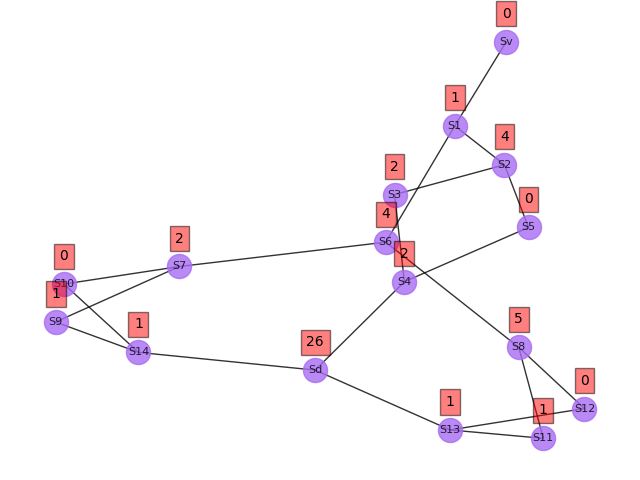
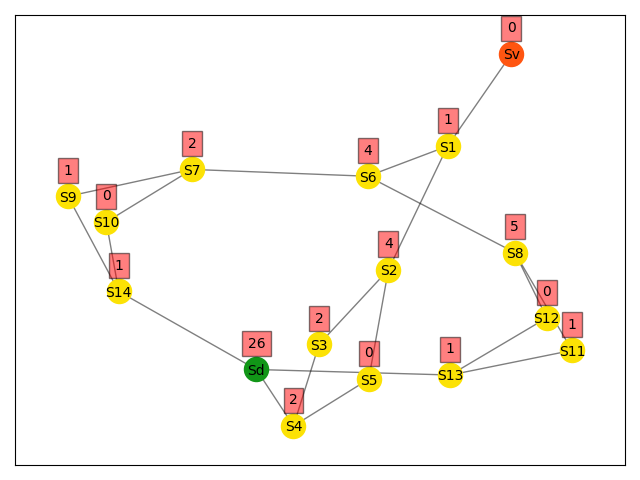
Sd and Sv are now different colors in printing

diff --git a/graphPrinting.py b/graphPrinting.py
@@ -1,10 +1,8 @@
-import tkinter as tk
-from matplotlib.backends.backend_tkagg import FigureCanvasTkAgg
 import networkx as nx
 import matplotlib.pyplot as plt
 
 
-# Init Graph with Networkx
+# Inits Graph with Networkx
 def initPrintingGraph(anthill):
     graph = nx.Graph()
     graph.add_node('Sv')
@@ -18,25 +16,45 @@ def initPrintingGraph(anthill):
         graph.add_edge(edge[0], edge[1])
 
     nodePos = nx.spring_layout(graph)
-    nx.draw(graph, nodePos, with_labels=True, font_size=8, alpha=0.8, node_color="#A86CF3")
+    drawNodes(anthill, nodePos, graph)
+    drawNamesAndCapacities(anthill, nodePos)
     plt.savefig("./steps/anthill.png")
+    plt.tight_layout()
+    plt.axis("off")
     return graph, nodePos
 
 
-# Printing NetworkX Graph
-def printGraph(graph, nodePos, anthill, stepId):
-    figure = plt.gcf()
-    figure.canvas.manager.set_window_title('Anthill')
-    figure.canvas.manager.window.SetPosition = (200, 200)
-
-    nx.draw(graph, nodePos, with_labels=True, font_size=8, alpha=0.8, node_color="#A86CF3")
+# Draws room names and their capacities above nodes
+def drawNamesAndCapacities(anthill, nodePos):
     for room in anthill.getRoomArray():
         currentName = room.getName()
         currentCapacity = room.getMaxCapacity() - room.getCapacityLeft()
         x, y = nodePos[currentName]
+        plt.text(x, y - 0.025, s=currentName, horizontalalignment='center')
         plt.text(x, y + 0.1, s=currentCapacity, bbox=dict(facecolor='red', alpha=0.5), horizontalalignment='center')
 
+
+# Draws node in different colors
+def drawNodes(anthill, nodePos, graph):
+    roomNames = anthill.getRoomNames()
+    roomNames.remove('Sd')
+    roomNames.remove('Sv')
+    nx.draw_networkx_nodes(graph, nodePos, nodelist=['Sd'], node_color="#119617")
+    nx.draw_networkx_nodes(graph, nodePos, nodelist=['Sv'], node_color="#FF5511")
+    nx.draw_networkx_nodes(graph, nodePos, nodelist=roomNames, node_color="#FCE205")
+    nx.draw_networkx_edges(graph, nodePos, width=1.0, alpha=0.5)
+
+
+# Prints NetworkX Graph
+def printGraph(graph, nodePos, anthill, stepId):
+    figure = plt.gcf()
+    figure.canvas.manager.set_window_title('Anthill')
+    figure.canvas.manager.window.SetPosition = (200, 200)
+    drawNodes(anthill, nodePos, graph)
+    drawNamesAndCapacities(anthill, nodePos)
     plt.savefig("./steps/step" + str(stepId) + ".png")
+    plt.tight_layout()
+    plt.axis("off")
     plt.draw()
     plt.pause(1)
     figure.clear()

diff --git a/fileParsing.py b/fileParsing.py
@@ -1,8 +1,6 @@
 from os.path import exists
 import numpy
 import Room
-import Anthill
-import Ant
 
 
 # Parses line 0 to find ant number specified like this : f=10
